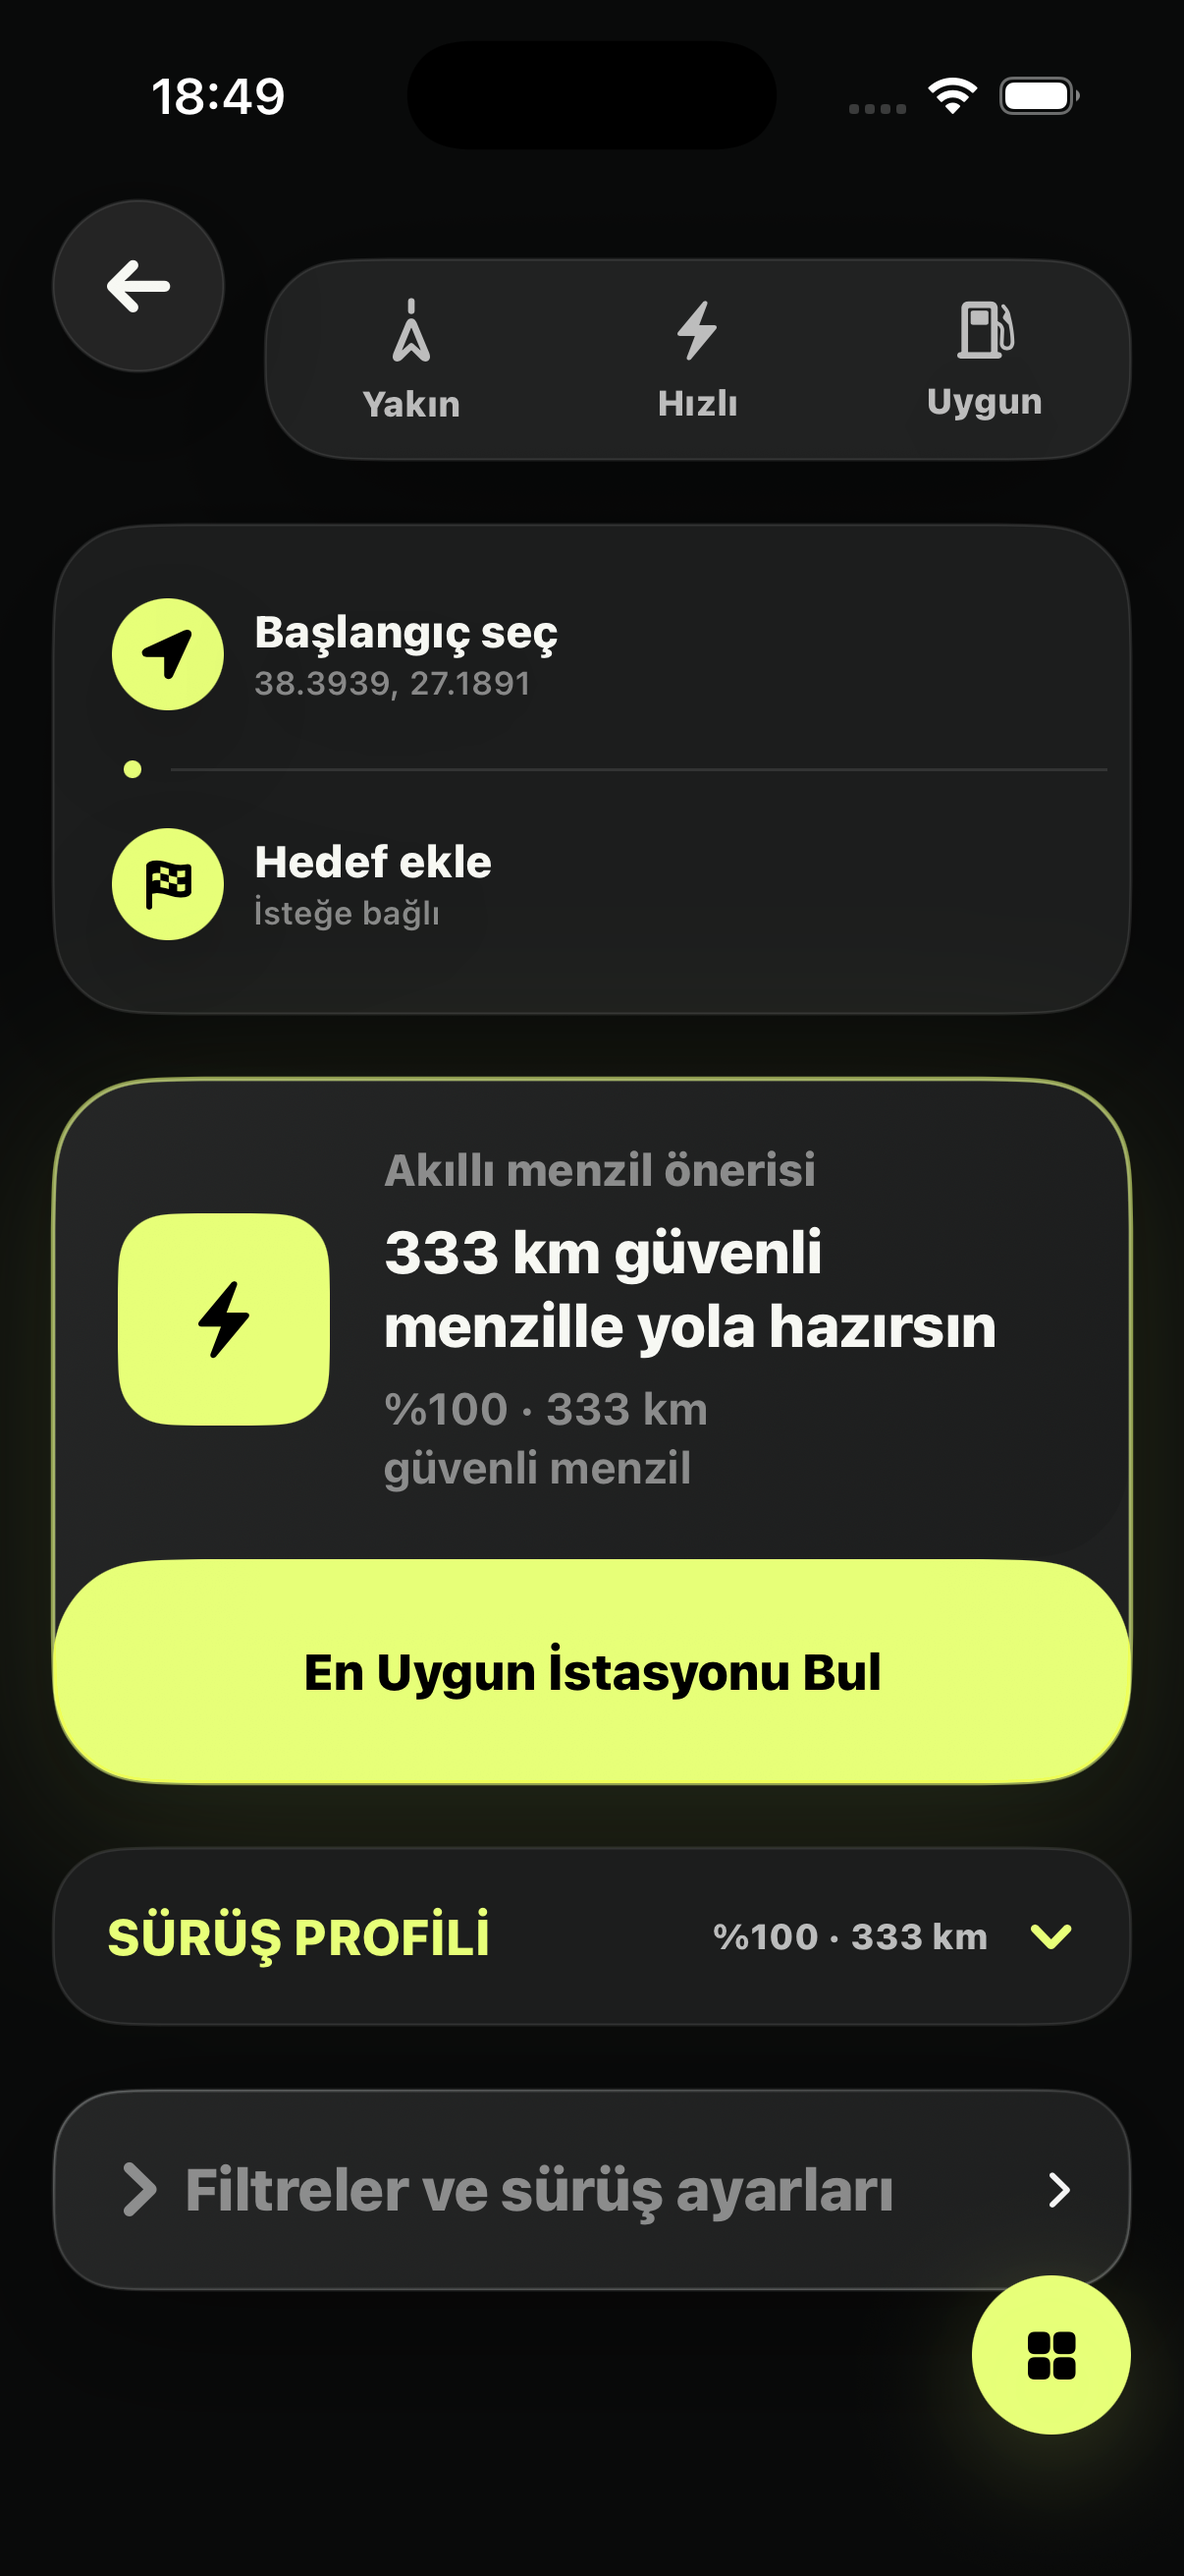
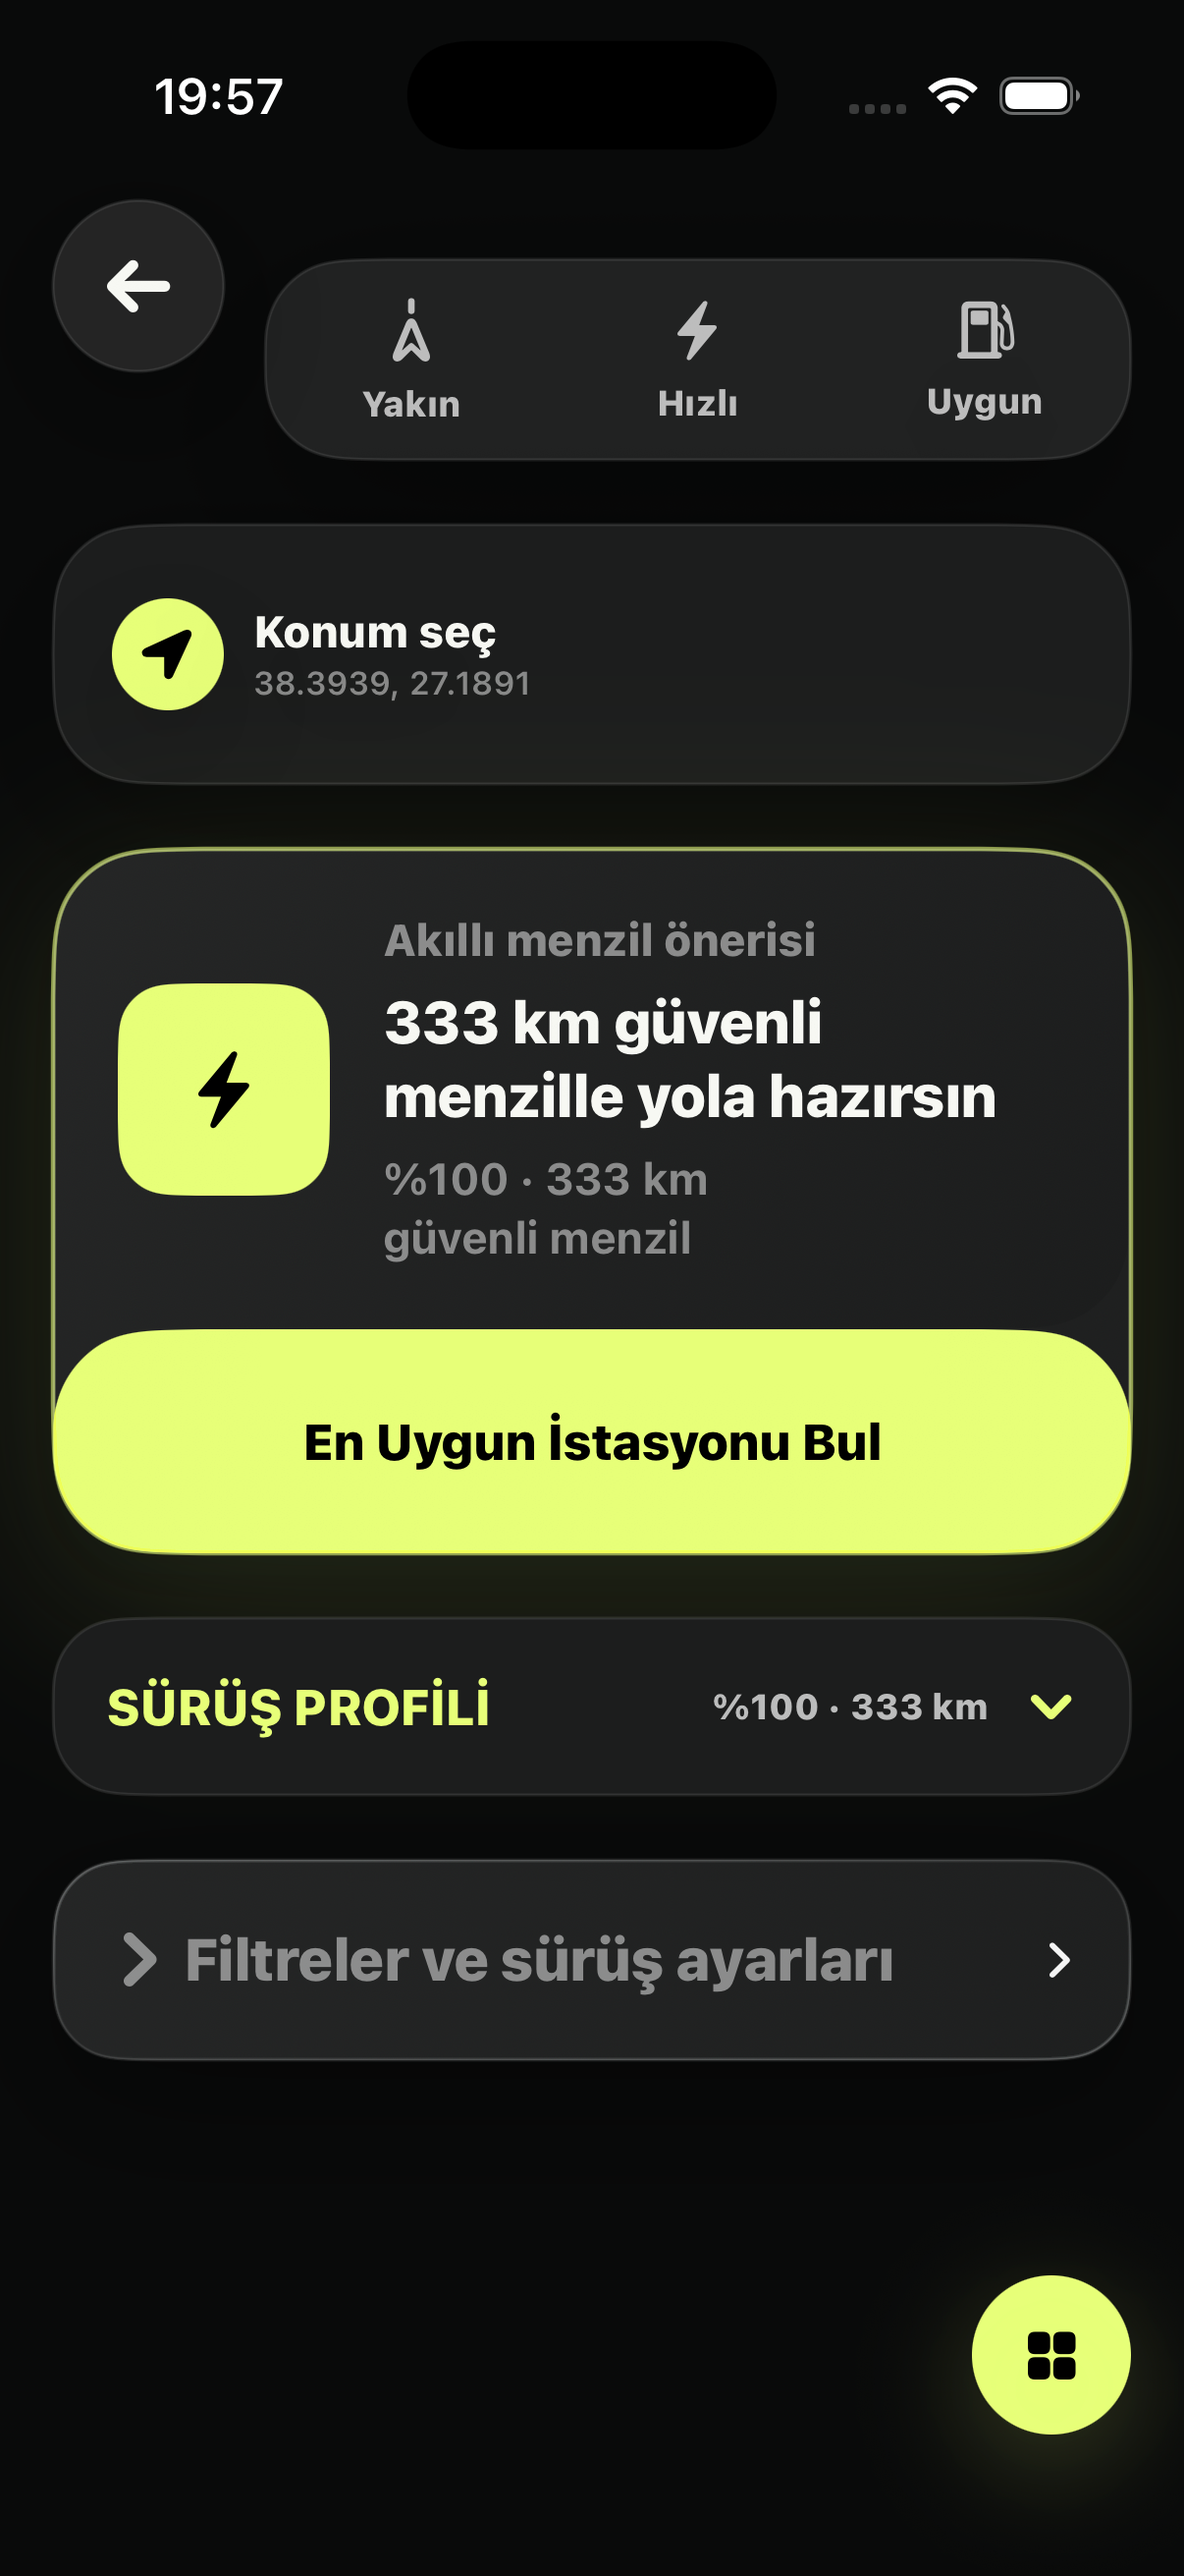
Simplify home location flow

diff --git a/SarjBul/Features/Home/HomeView.swift b/SarjBul/Features/Home/HomeView.swift
@@ -25,7 +25,10 @@ struct HomeView: View {
                 ScrollView {
                     VStack(alignment: .leading, spacing: 22) {
                         topControls
-                        journeyInputs
+                        if search.userLocation?.source != .device {
+                            locationInput
+                                .transition(.opacity.combined(with: .move(edge: .top)))
+                        }
                         routeAction
                         drivingProfile
                         filtersAndSettings
@@ -44,6 +47,7 @@ struct HomeView: View {
                 .padding(.leading, 18)
                 .padding(.top, 6)
             }
+            .animation(.easeInOut(duration: 0.24), value: search.userLocation?.source)
             .accessibilityIdentifier("home-screen")
             .sbInlineNavigationTitle()
             .onReceive(locationManager.$lastLocation.compactMap { $0 }) { location in
@@ -52,6 +56,7 @@ struct HomeView: View {
             }
             .onAppear {
                 guard !isDeterministicUITest else { return }
+                settings.destination = nil
                 guard !didRequestDeviceLocation, search.userLocation == nil else { return }
                 requestDeviceLocation()
             }
@@ -109,19 +114,9 @@ struct HomeView: View {
         .buttonStyle(QuickActionStyle(active: settings.filters.preference == preference))
     }
 
-    private var journeyInputs: some View {
+    private var locationInput: some View {
         VStack(spacing: 0) {
             originJourneyButton
-            HStack(spacing: 10) {
-                Circle()
-                    .fill(SBColor.signal)
-                    .frame(width: 6, height: 6)
-                Rectangle()
-                    .fill(SBColor.line)
-                    .frame(height: 1)
-            }
-            .padding(.leading, 16)
-            destinationJourneyButton
         }
         .padding(8)
         .background(SBColor.surfaceSolid, in: RoundedRectangle(cornerRadius: SBRadius.xl, style: .continuous))
@@ -130,6 +125,7 @@ struct HomeView: View {
                 .stroke(SBColor.line, lineWidth: 1)
         )
         .sbSoftShadow()
+        .accessibilityIdentifier("location-input")
     }
 
     private var originJourneyButton: some View {
@@ -141,27 +137,6 @@ struct HomeView: View {
                 icon: "location.fill"
             ) {
                 placeSearchMode = .origin
-            }
-    }
-
-    private var destinationJourneyButton: some View {
-        journeyButton(
-                title: settings.destination?.name ?? settings.t("place.choose_destination"),
-                subtitle: settings.destination?.address.isEmpty == false
-                    ? settings.destination?.address ?? ""
-                    : settings.t("place.optional"),
-                icon: "flag.checkered"
-            ) {
-                placeSearchMode = .destination
-            }
-            .contextMenu {
-                if settings.destination != nil {
-                    Button(role: .destructive) {
-                        settings.destination = nil
-                    } label: {
-                        Label(settings.t("place.clear_destination"), systemImage: "xmark")
-                    }
-                }
             }
     }
 
@@ -498,6 +473,7 @@ struct HomeView: View {
         #if DEBUG
         ProcessInfo.processInfo.arguments.contains("--ui-testing-home")
             || ProcessInfo.processInfo.arguments.contains("--ui-testing-routes")
+            || ProcessInfo.processInfo.arguments.contains("--ui-testing-device-location")
         #else
         false
         #endif

diff --git a/SarjBul/App/Localization.swift b/SarjBul/App/Localization.swift
@@ -84,12 +84,12 @@ enum AppLocalization {
             "home.use_manual_location": "Manuel konumu kullan",
             "home.open_settings": "Konum izni için Ayarlar'ı aç",
             "place.my_location": "Konumum",
-            "place.choose_origin": "Başlangıç seç",
+            "place.choose_origin": "Konum seç",
             "place.choose_destination": "Hedef ekle",
             "place.not_selected": "Seçilmedi",
             "place.optional": "İsteğe bağlı",
             "place.clear_destination": "Hedefi kaldır",
-            "place.origin_title": "Başlangıç noktası",
+            "place.origin_title": "Konum seç",
             "place.destination_title": "Nereye gidiyorsun?",
             "place.origin_hint": "Adres, semt veya yer ara",
             "place.destination_hint": "Hedefini arayarak rota üzerindeki istasyonları bul",
@@ -323,12 +323,12 @@ enum AppLocalization {
             "home.use_manual_location": "Use manual location",
             "home.open_settings": "Open Settings for location access",
             "place.my_location": "My location",
-            "place.choose_origin": "Choose start",
+            "place.choose_origin": "Choose location",
             "place.choose_destination": "Add destination",
             "place.not_selected": "Not selected",
             "place.optional": "Optional",
             "place.clear_destination": "Remove destination",
-            "place.origin_title": "Starting point",
+            "place.origin_title": "Choose location",
             "place.destination_title": "Where are you going?",
             "place.origin_hint": "Search for an address, area, or place",
             "place.destination_hint": "Search your destination to find chargers along the route",

diff --git a/SarjBulUITests/AppSmokeUITests.swift b/SarjBulUITests/AppSmokeUITests.swift
@@ -14,6 +14,17 @@ final class AppSmokeUITests: XCTestCase {
         XCTAssertTrue(app.descendants(matching: .any)["home-screen"].waitForExistence(timeout: 12))
         XCTAssertFalse(app.buttons["auth-submit-button"].exists)
         XCTAssertFalse(app.buttons["guest-start-button"].exists)
+        XCTAssertTrue(app.staticTexts["Konum seç"].exists)
+        XCTAssertFalse(app.staticTexts["Hedef ekle"].exists)
+    }
+
+    func testManualLocationInputHidesWhenDeviceLocationIsAvailable() throws {
+        let app = XCUIApplication()
+        app.launchArguments = ["--ui-testing-device-location"]
+        app.launch()
+
+        XCTAssertTrue(app.descendants(matching: .any)["home-screen"].waitForExistence(timeout: 12))
+        XCTAssertFalse(app.descendants(matching: .any)["location-input"].exists)
     }
 
     func testStationStoryImageOpensShareSheet() throws {

diff --git a/SarjBul/App/AppState.swift b/SarjBul/App/AppState.swift
@@ -96,7 +96,10 @@ final class AppState {
     private func applyDebugLaunchMode() {
         #if DEBUG
         let arguments = ProcessInfo.processInfo.arguments
-        if arguments.contains("--ui-testing-home") || arguments.contains("--ui-testing-routes") {
+        if arguments.contains("--ui-testing-device-location") {
+            navigation.tab = .home
+            search.userLocation = UserLocation(latitude: 38.3939, longitude: 27.1891, source: .device)
+        } else if arguments.contains("--ui-testing-home") || arguments.contains("--ui-testing-routes") {
             navigation.tab = .home
             search.userLocation = UserLocation(latitude: 38.3939, longitude: 27.1891, source: .manual)
         } else if arguments.contains("--ui-testing-lounge") {

diff --git a/README.md b/README.md
@@ -16,8 +16,7 @@ Tasarım değiştiğinde bu görsel de aynı değişiklikle güncellenir. Renk, 
 
 ## Ürün Özellikleri
 
-- Cihaz konumu, adres/POI arama ve manuel koordinat akışı
-- İsteğe bağlı hedef ile rota koridorundaki istasyonları bulma
+- Açılışta cihaz konumu izni; izin yoksa adres/POI arama ve manuel koordinat akışı
 - Batarya kapasitesi, şarj yüzdesi, tüketim ve güvenlik payıyla varış şarjı hesabı
 - Yakın, hızlı, ekonomik ve dengeli sıralama; soket, güç ve menzil filtreleri
 - Gerçek `MKDirections` rotası, trafik katmanlı MapKit görünümü ve Apple/Google Maps aktarımı
